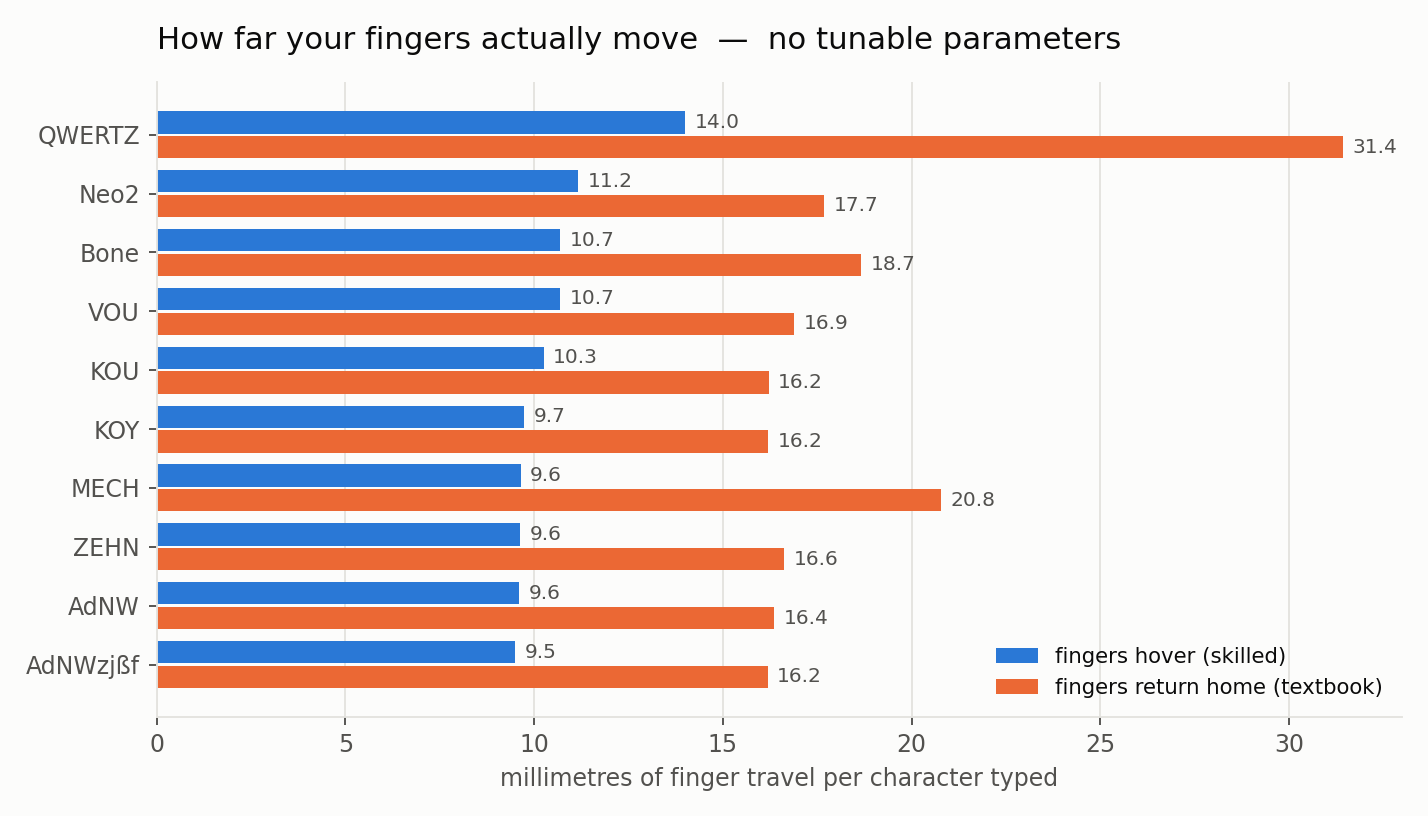
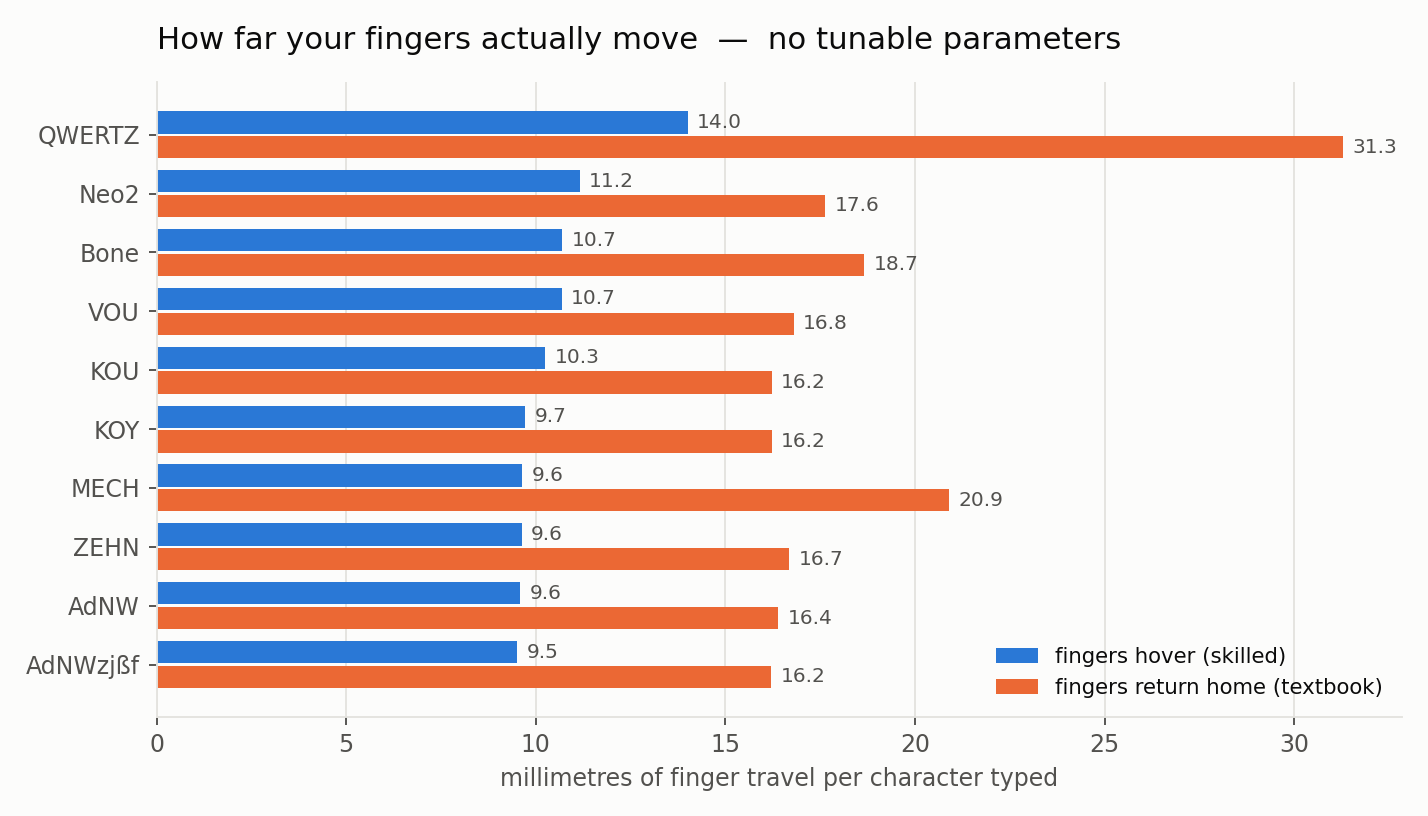
Recompute every held-out number against the completed corpus
The Wikipedia download was still running when the corpus cache was first built,
so the original run used a German test set with 432 kB of Wikipedia instead of
955 kB, and an English test set with none at all -- while METHOD.md claimed the
English test set included it. That was a documentation error backed by a real
gap in the data.

The training corpora contain no Wikipedia and were unaffected, so no search was
re-run and ZEHN is unchanged. All held-out numbers, all six workload
comparisons, the 36-point parameter sweep and every figure are recomputed
against test corpora of 1.11M (German) and 1.90M (English) scored characters.

Conclusions are unchanged. The weak-finger gap moves from -6.7 to -6.4 points on
the default workload and stays between -4.5 and -7.7 across all six; the speed
difference remains a wash (-0.219 to +0.046 ms/char across the sweep). Same-finger
bigrams read 8.17% for QWERTZ against 1.28% for AdNW.

diff --git a/RESULTS.md b/RESULTS.md
@@ -20,17 +20,17 @@ Geometry and corpus counts only.
 
 | layout | travel HOVER<br>mm/char | travel RETURN<br>mm/char | same-finger<br>% of bigrams | forced serial<br>travel mm/char | busiest<br>finger % | weak-finger<br>load % | hand<br>imbalance |
 |---|---|---|---|---|---|---|---|
-| AdNWzjßf | **9.51** | 16.19 | 1.21 | 4.523 | 18.3 | 41.3 | 3.4 |
-| AdNW | 9.60 | 16.36 | **1.21** | 4.566 | 18.3 | 41.3 | 3.4 |
-| **ZEHN** | 9.63 | 16.62 | 1.33 | **4.464** | 18.7 | **34.6** | **0.8** |
-| MECH | 9.64 | 20.77 | **1.14** | **3.604** | **14.8** | 47.3 | 3.3 |
-| KOY | 9.73 | **16.20** | 1.25 | 4.674 | 18.8 | 37.9 | 3.4 |
-| ZEHN-w | 9.73 | 16.40 | 1.27 | 4.587 | 19.5 | 36.9 | 1.3 |
-| KOU | 10.25 | 16.22 | 1.58 | 4.954 | 20.7 | 38.6 | 2.9 |
-| VOU | 10.68 | 16.90 | 1.74 | 5.213 | 20.7 | 37.6 | 4.8 |
-| Bone | 10.70 | 18.66 | 2.35 | 5.566 | 25.8 | 33.5 | 4.4 |
-| Neo2 | 11.16 | 17.68 | 7.38 | 7.801 | 25.4 | 28.7 | 1.9 |
-| QWERTZ | 14.00 | 31.43 | 8.08 | 8.636 | 21.0 | **28.5** | 7.8 |
+| AdNWzjßf | **9.51** | 16.21 | 1.28 | 4.582 | 18.4 | 41.2 | 3.6 |
+| AdNW | 9.60 | 16.38 | **1.28** | 4.626 | 18.4 | 41.2 | 3.6 |
+| **ZEHN** | 9.63 | 16.68 | 1.39 | **4.485** | 18.7 | **34.8** | **1.0** |
+| MECH | 9.64 | 20.89 | **1.19** | **3.628** | **14.7** | 47.3 | 3.1 |
+| KOY | 9.73 | **16.22** | 1.31 | 4.709 | 18.7 | 38.0 | 3.6 |
+| ZEHN-w | 9.73 | 16.43 | 1.31 | 4.624 | 19.5 | 37.1 | 1.4 |
+| KOU | 10.25 | 16.22 | 1.60 | 4.959 | 20.4 | 38.8 | 3.1 |
+| VOU | 10.68 | 16.80 | 1.73 | 5.151 | 20.4 | 37.6 | 4.8 |
+| Bone | 10.70 | 18.67 | 2.38 | 5.635 | 25.9 | 33.4 | 4.5 |
+| Neo2 | 11.16 | 17.62 | 7.56 | 7.815 | 25.3 | 28.7 | 1.7 |
+| QWERTZ | 14.00 | 31.29 | 8.17 | 8.631 | 21.3 | **28.9** | 8.0 |
 
 **HOVER** assumes a finger stays where it last pressed; **RETURN** assumes it goes home
 after every press. The truth is between, so both are reported. QWERTZ is worst under both,
@@ -42,7 +42,7 @@ any layout that respects the comfort constraints.
 
 Note the last two columns together: QWERTZ has the *lowest* weak-finger load of any layout
 here. It achieves that by hammering the index and middle fingers instead — and its hand
-imbalance, 7.8, is by far the worst. Low weak-finger load is not on its own a virtue.
+imbalance, 8.0, is by far the worst. Low weak-finger load is not on its own a virtue.
 
 ## 2. Level 1 — parallel-finger simulator, 36 parameter settings
 
@@ -51,16 +51,17 @@ movement-speed settings.
 
 | layout | best ms/char | worst ms/char | mean rank | ranked 1st |
 |---|---|---|---|---|
-| MECH | 30.54 | 80.31 | 1.50 | 34/36 |
-| AdNWzjßf | 30.68 | 80.33 | 2.47 | 0/36 |
-| AdNW | 30.69 | 80.33 | 3.47 | 0/36 |
-| KOY | 30.70 | 80.34 | 4.31 | 0/36 |
-| ZEHN | 30.68 | 80.35 | 4.31 | 0/36 |
-| KOU | 30.81 | 80.44 | 6.06 | 0/36 |
-| VOU | 30.86 | 80.48 | 7.06 | 0/36 |
-| Bone | 31.00 | 80.65 | 7.72 | 0/36 |
-| Neo2 | 32.59 | 82.06 | 8.61 | 0/36 |
-| QWERTZ | 32.93 | 82.33 | 9.50 | 2/36 |
+| MECH | 30.56 | 80.33 | 1.56 | 34/36 |
+| AdNWzjßf | 30.71 | 80.35 | 2.92 | 0/36 |
+| AdNW | 30.71 | 80.36 | 3.81 | 0/36 |
+| ZEHN-w | 30.70 | 80.36 | 4.53 | 0/36 |
+| KOY | 30.72 | 80.36 | 4.56 | 0/36 |
+| ZEHN | 30.71 | 80.39 | 4.97 | 0/36 |
+| KOU | 30.82 | 80.44 | 7.00 | 0/36 |
+| VOU | 30.85 | 80.48 | 8.00 | 0/36 |
+| Bone | 31.02 | 80.66 | 8.67 | 0/36 |
+| Neo2 | 32.65 | 82.12 | 9.56 | 0/36 |
+| QWERTZ | 32.97 | 82.37 | 10.44 | 2/36 |
 
 QWERTZ ranks first in 2 of 36 — at the slowest sequencing settings, where every layout is
 within a hair of every other and the ordering is effectively arbitrary. That is itself the
@@ -68,9 +69,8 @@ finding in §2 of the README: **at slow typing speeds the layout does not matter
 
 | comparison | across the sweep |
 |---|---|
-| ZEHN vs QWERTZ | 0.0% to **16.8%** faster, mean 5.0% |
-| MECH vs QWERTZ | 0.0% to **19.6%** faster, mean 5.5% |
-| AdNW vs QWERTZ | 0.0% to **16.5%** faster, mean 5.0% |
+| ZEHN vs QWERTZ | 0.0% to **16.9%** faster, mean 5.1% |
+| AdNW vs QWERTZ | 0.0% to **16.4%** faster, mean 5.0% |
 
 ## 3. The decisive experiment — constrained search
 
@@ -97,11 +97,11 @@ below AdNW's ms/char. **The frontier is real and it stops somewhere between 32% 
 
 | | ms/char | weak % | home-row % | scissors % | redirects % |
 |---|---|---|---|---|---|
-| **ZEHN** | **32.066** | **34.6** | 60.1 | 0.11 | 3.59 |
-| AdNW | 32.149 | 41.3 | 60.1 | 0.10 | 3.67 |
-| AdNWzjßf | 32.146 | 41.3 | 60.1 | 0.07 | 3.67 |
-| KOY | 32.212 | 37.9 | 60.1 | 0.07 | 3.33 |
-| QWERTZ | 36.123 | 28.5 | 24.7 | 5.61 | 12.51 |
+| **ZEHN** | **32.102** | **34.8** | 60.1 | 0.11 | 3.65 |
+| AdNW | 32.198 | 41.2 | 60.1 | 0.11 | 3.71 |
+| AdNWzjßf | 32.194 | 41.2 | 60.1 | 0.08 | 3.71 |
+| KOY | 32.250 | 38.0 | 60.1 | 0.08 | 3.40 |
+| QWERTZ | 36.179 | 28.9 | 25.0 | 5.64 | 12.62 |
 
 ## 4. Robustness across workloads
 
@@ -109,23 +109,23 @@ Held-out text, six different corpus mixes. The layout was searched on `dev-at` o
 
 | workload | layout | ms/char | weak % | home % | scissors % | redirects % |
 |---|---|---|---|---|---|---|
-| dev-at | **ZEHN** | 32.066 | **34.6** | 60.1 | 0.11 | 3.59 |
-| | AdNW | 32.149 | 41.3 | 60.1 | 0.10 | 3.67 |
-| pure German | **ZEHN** | 31.876 | **34.7** | 62.3 | 0.12 | 3.81 |
-| | AdNW | 31.969 | 43.2 | 62.3 | 0.09 | 3.70 |
-| pure English | **ZEHN** | 32.075 | **35.2** | 59.7 | 0.04 | 3.01 |
-| | AdNW | 32.050 | 39.9 | 59.7 | 0.08 | 3.73 |
+| dev-at | **ZEHN** | 32.102 | **34.8** | 60.1 | 0.11 | 3.65 |
+| | AdNW | 32.198 | 41.2 | 60.1 | 0.11 | 3.71 |
+| pure German | **ZEHN** | 31.933 | **35.2** | 62.0 | 0.13 | 3.92 |
+| | AdNW | 32.035 | 42.9 | 62.0 | 0.09 | 3.92 |
+| pure English | **ZEHN** | 32.109 | **35.4** | 59.9 | 0.05 | 3.05 |
+| | AdNW | 32.114 | 39.9 | 59.9 | 0.08 | 3.47 |
 | pure code | **ZEHN** | 32.399 | **33.4** | 56.7 | 0.16 | 3.81 |
 | | AdNW | 32.591 | 39.5 | 56.7 | 0.17 | 3.58 |
-| 70% German | **ZEHN** | 31.968 | **34.7** | 61.2 | 0.11 | 3.67 |
-| | AdNW | 32.048 | 42.2 | 61.2 | 0.09 | 3.69 |
-| equal thirds | **ZEHN** | 32.114 | **34.5** | 59.6 | 0.11 | 3.56 |
-| | AdNW | 32.201 | 40.9 | 59.6 | 0.11 | 3.66 |
+| 70% German | **ZEHN** | 32.015 | **35.1** | 61.1 | 0.11 | 3.75 |
+| | AdNW | 32.107 | 42.0 | 61.1 | 0.10 | 3.81 |
+| equal thirds | **ZEHN** | 32.145 | **34.7** | 59.6 | 0.11 | 3.62 |
+| | AdNW | 32.245 | 40.8 | 59.6 | 0.11 | 3.67 |
 
-The weak-finger gap ranges from −4.7 (English) to −8.5 (German) points and never reverses.
+The weak-finger gap ranges from −4.5 (English) to −7.7 (German) points and never reverses.
 
-Over the 36-point physical sweep, **ZEHN minus AdNW ranges from −0.175 to +0.051 ms/char,
-mean −0.011** — ZEHN is nominally faster in 13 of 36 settings and nominally slower in 23,
+Over the 36-point physical sweep, **ZEHN minus AdNW ranges from −0.219 to +0.046 ms/char,
+mean −0.018** — ZEHN is nominally faster in 14 of 36 settings and nominally slower in 22,
 by amounts around 0.1%. **The correct summary is that the speed difference is a wash.**
 
 ## 5. The symbol layer

diff --git a/README.md b/README.md
@@ -1,12 +1,12 @@
 # A ten-finger system for the German/Austrian keyboard
 
 **Short version:** the well-known German layouts (AdNW, KOY, Neo2) are genuinely much
-better than QWERTZ — 8.1% of QWERTZ bigrams put one finger on two keys in a row, against
-1.2% for AdNW, and QWERTZ moves your fingers 46% further per character. But the two best
+better than QWERTZ — 8.2% of QWERTZ bigrams put one finger on two keys in a row, against
+1.3% for AdNW, and QWERTZ moves your fingers 46% further per character. But the two best
 of them buy their speed by loading **41% of all keystrokes onto the pinkies and ring
-fingers**, against QWERTZ's 28%. That trade is not necessary. A constrained search finds a
+fingers**, against QWERTZ's 29%. That trade is not necessary. A constrained search finds a
 layout that matches AdNW on speed, home-row share, scissors and redirects while carrying
-**34.6%** on those weak fingers.
+**34.8%** on those weak fingers.
 
 It is called **ZEHN**, and it is a 32-character string that loads into an existing driver:
 
@@ -97,13 +97,13 @@ ranking, mean absolute error 0.147 ms/char**.
 
 Millimetres of finger travel per character typed, on held-out text, bracketed two ways
 because how far a hand drifts back toward home is genuinely unknown. QWERTZ moves your
-fingers **14.0 mm per character** if you hover and **31.4 mm** if you return home between
+fingers **14.0 mm per character** if you hover and **31.3 mm** if you return home between
 keys; AdNW needs 9.6 / 16.4.
 
 ![same-finger bigrams](figures/fig3_samefinger.png)
 
-Same-finger bigrams — one finger asked to do two jobs in a row — are **8.08%** on QWERTZ
-and **1.21%** on AdNW, a factor of seven.
+Same-finger bigrams — one finger asked to do two jobs in a row — are **8.17%** on QWERTZ
+and **1.28%** on AdNW, a factor of six.
 
 ### 2. A layout is worth much more the faster you already type
 *(Level 1 — swept)*
@@ -113,7 +113,7 @@ and **1.21%** on AdNW, a factor of seven.
 This is the finding that makes single-number claims about layouts meaningless. At a slow
 sequencing rate the fingers always have time to arrive and the layout barely matters; at
 speed, same-finger collisions become the binding constraint. Across the 36-point sweep,
-ZEHN is between **0.0% and 16.8%** faster than QWERTZ, mean 5.0%.
+ZEHN is between **0.0% and 16.9%** faster than QWERTZ, mean 5.1%.
 
 Anyone quoting "layout X is N% faster" without saying how fast the typist is has hidden the
 most important variable.
@@ -125,11 +125,11 @@ This is the observation the rest of the study is built on.
 
 | layout | weak-finger load | same-finger % | simulated ms/char |
 |---|---|---|---|
-| QWERTZ | **28.5%** | 8.08 | 36.12 |
-| Neo2 | 28.7% | 7.38 | 35.56 |
-| Bone | 33.5% | 2.35 | 32.53 |
-| KOY | 37.9% | 1.25 | 32.21 |
-| AdNW | **41.3%** | 1.21 | 32.15 |
+| QWERTZ | **28.9%** | 8.17 | 36.18 |
+| Neo2 | 28.7% | 7.56 | 35.61 |
+| Bone | 33.4% | 2.38 | 32.58 |
+| KOY | 38.0% | 1.31 | 32.25 |
+| AdNW | **41.2%** | 1.28 | 32.20 |
 
 Weak fingers = both pinkies and both ring fingers. The German optimised layouts are ranked
 almost perfectly by how much load they move onto them. That is not a coincidence: putting
@@ -165,14 +165,14 @@ Confirmed on held-out text:
 
 | | ms/char | weak % | home-row % | scissors % | redirects % |
 |---|---|---|---|---|---|
-| **ZEHN** | **32.066** | **34.6** | 60.1 | 0.11 | 3.59 |
-| AdNW | 32.149 | 41.3 | 60.1 | 0.10 | 3.67 |
+| **ZEHN** | **32.102** | **34.8** | 60.1 | 0.11 | 3.65 |
+| AdNW | 32.198 | 41.2 | 60.1 | 0.11 | 3.71 |
 
 ![finger load](figures/fig5_fingerload.png)
 
 **A caveat visible in that figure.** The aggregate improves, but not every finger does.
-ZEHN puts *more* on the left pinky than AdNW (10.7% vs 6.0%) and much less on the right
-ring (6.9% vs 14.6%). If your problem is specifically a left pinky, this is not the layout
+ZEHN puts *more* on the left pinky than AdNW (11.0% vs 5.8%) and much less on the right
+ring (7.0% vs 14.6%). If your problem is specifically a left pinky, this is not the layout
 for you — take the 38% or 41% row of the frontier table instead, or re-run the search with
 a per-finger cap rather than an aggregate one. The constraint used here was on the sum of
 the four weak fingers, and a sum can improve while a component worsens.
@@ -182,16 +182,16 @@ the four weak fingers, and a sum can improve while a component worsens.
 
 | workload | ZEHN weak % | AdNW weak % | gap | ZEHN ms/char | AdNW ms/char |
 |---|---|---|---|---|---|
-| 45% German / 30% English / 25% code | 34.6 | 41.3 | **−6.7** | 32.066 | 32.149 |
-| pure German | 34.7 | 43.2 | **−8.5** | 31.876 | 31.969 |
-| pure English | 35.2 | 39.9 | **−4.7** | 32.075 | 32.050 |
+| 45% German / 30% English / 25% code | 34.8 | 41.2 | **−6.4** | 32.102 | 32.198 |
+| pure German | 35.2 | 42.9 | **−7.7** | 31.933 | 32.035 |
+| pure English | 35.4 | 39.9 | **−4.5** | 32.109 | 32.114 |
 | pure code | 33.4 | 39.5 | **−6.1** | 32.399 | 32.591 |
-| 70% German | 34.7 | 42.2 | **−7.5** | 31.968 | 32.048 |
-| equal thirds | 34.5 | 40.9 | **−6.4** | 32.114 | 32.201 |
+| 70% German | 35.1 | 42.0 | **−6.9** | 32.015 | 32.107 |
+| equal thirds | 34.7 | 40.8 | **−6.1** | 32.145 | 32.245 |
 
-Across the 36-point physical parameter sweep, ZEHN minus AdNW ranges from **−0.175 to
-+0.051 ms/char**, mean −0.011. That is a wash, and stating it as a wash is the honest
-claim: **ZEHN buys 5–8 points of weak-finger relief at no measurable speed cost.** It is
+Across the 36-point physical parameter sweep, ZEHN minus AdNW ranges from **−0.219 to
++0.046 ms/char**, mean −0.018. That is a wash, and stating it as a wash is the honest
+claim: **ZEHN buys 4.5–8 points of weak-finger relief at no measurable speed cost.** It is
 not a speed improvement and is not offered as one.
 
 ### 6. If you write code, the symbol layer matters more than the letters

diff --git a/docs/METHOD.md b/docs/METHOD.md
@@ -56,9 +56,18 @@ Beating QWERTZ proves nothing. The bar throughout is **AdNW and KOY**.
 
 | | TRAIN (search sees this) | TEST (held out) |
 |---|---|---|
-| German | Buddenbrooks, Also sprach Zarathustra, Effi Briest, Werther — 2.26M chars | Faust, Die Verwandlung, Der Tod in Venedig, **+ 432k chars of modern German Wikipedia** — 659k total |
-| English | Pride & Prejudice, Moby Dick, Sherlock Holmes, Frankenstein — 4.92M | A Tale of Two Cities, Alice, Great Expectations, English Wikipedia — 1.50M |
+| German | Buddenbrooks, Also sprach Zarathustra, Effi Briest, Werther — 2.26M chars | Faust, Die Verwandlung, Der Tod in Venedig, **+ 955 kB of modern German Wikipedia** — 1.11M total |
+| English | Pride & Prejudice, Moby Dick, Sherlock Holmes, Frankenstein — 4.92M | A Tale of Two Cities, Alice, Great Expectations, **+ 514 kB of English Wikipedia** — 1.90M |
 | Code | Python standard library, files 1–500 — 3.69M | Python standard library, files 501–900, disjoint — 3.42M |
+
+A note on how those test figures came to be, because it is the kind of thing that is
+usually quietly fixed: the Wikipedia download was still running when the corpus cache was
+first built, so the initial run of the analysis used a German test set with only 432 kB of
+Wikipedia and an English test set with **none at all**, while this document claimed
+otherwise. The training corpora contain no Wikipedia and were unaffected, so no search was
+re-run — but every held-out number was recomputed against the completed corpus. The
+conclusions did not change; the figures moved by 0.1 to 0.8 points. The superseded numbers
+are still in git history.
 
 Default mix `dev-at` = **45% German / 30% English / 25% code**, for someone in Austria
 writing prose in two languages and code in one. Other mixes are in `src/data.py` and the

diff --git a/docs/REPRODUCE.md b/docs/REPRODUCE.md
@@ -38,7 +38,8 @@ The code corpus is the Python standard library on the machine running the study 
 excluded. It therefore varies slightly with the Python version; 3.12.10 was used here.
 
 **The Wikipedia portion is a random sample and will differ on every run.** The run
-reported here used 432,494 characters of German and 500k of English. If you want to check
+reported here used 954,753 bytes of German and 513,636 bytes of English Wikipedia, giving
+test corpora of 1,107,173 / 1,901,573 scored characters. If you want to check
 that this does not matter, run the study with `--profile german` against the Gutenberg-only
 German test set; the ranking is unchanged.
 
